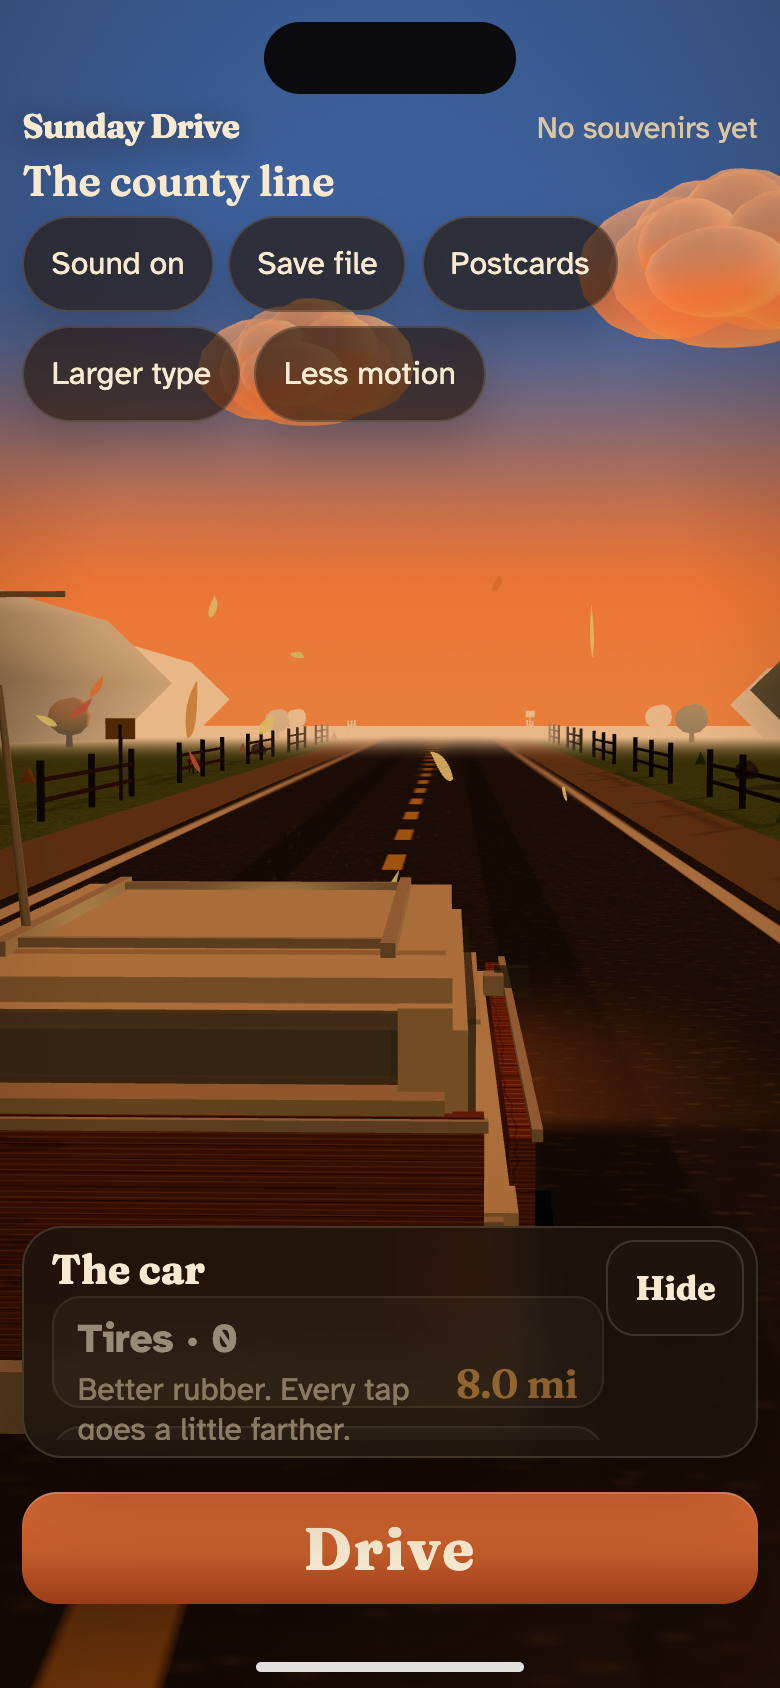
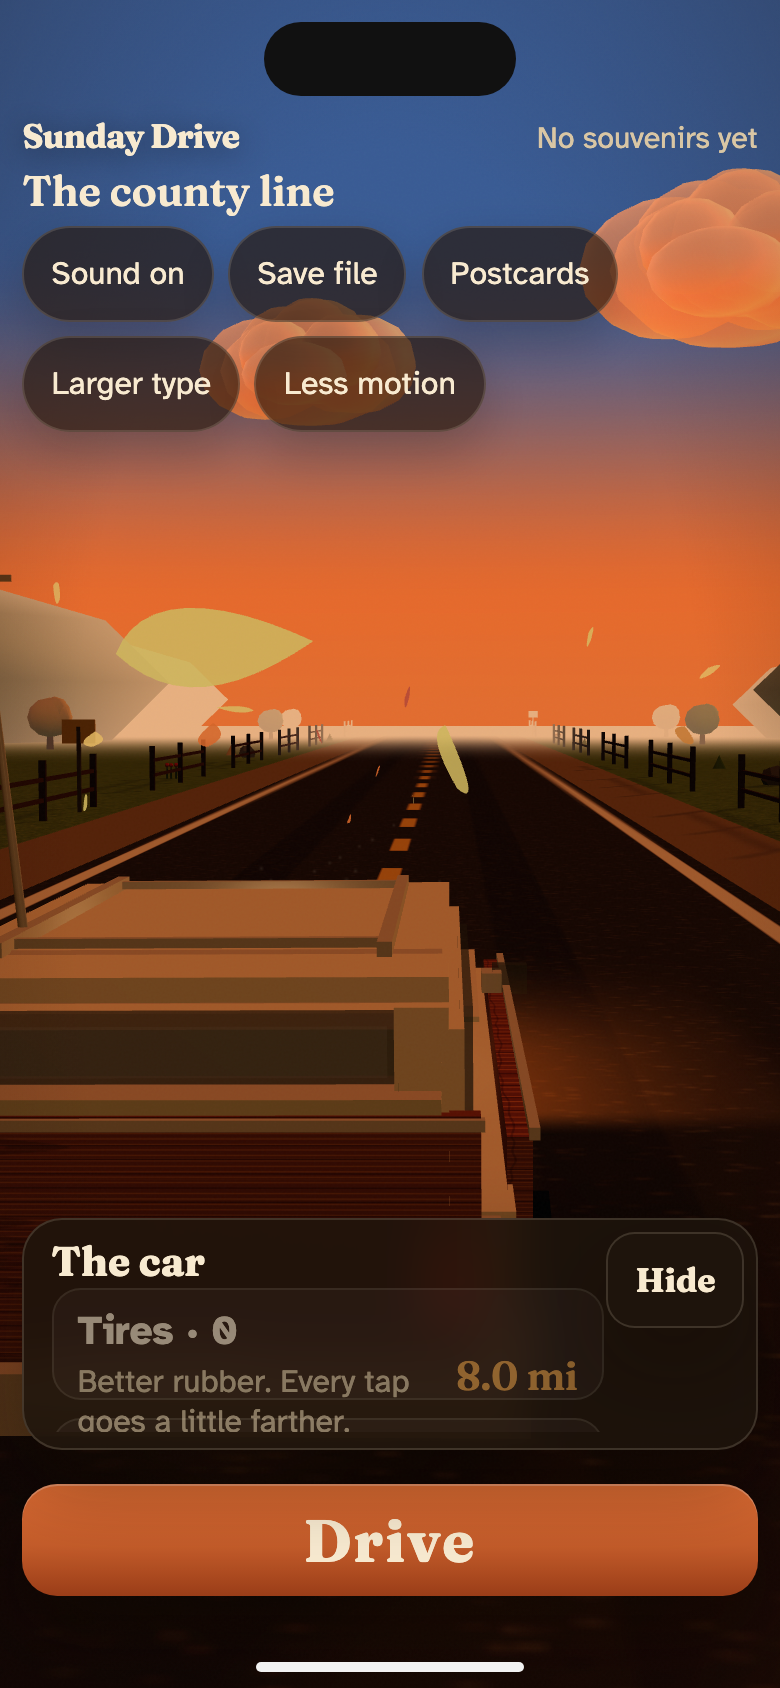
Wave 7: tighten phone chrome after the first pass
Give Drive more room above the home indicator, drop trip/hint on
portrait so the wagon stays in view, tuck upgrade blurbs when Larger
type is on, and make destination the landscape display line.
Draft only — no merge.

diff --git a/src/style.css b/src/style.css
@@ -583,7 +583,7 @@ input {
     min-height: 100dvh;
     padding-top: max(0.7rem, var(--safe-top));
     padding-right: max(0.7rem, var(--safe-right));
-    padding-bottom: max(0.85rem, calc(var(--safe-bottom) + 0.5rem));
+    padding-bottom: max(0.85rem, calc(var(--safe-bottom) + 0.75rem));
     padding-left: max(0.7rem, var(--safe-left));
   }
 
@@ -654,8 +654,13 @@ input {
   }
 
   .drive-wrap {
-    margin-top: 0.55rem;
+    margin-top: 0.4rem;
     flex-shrink: 0;
+  }
+
+  .hint,
+  .trip {
+    display: none;
   }
 
   .panel-toggle {
@@ -744,6 +749,14 @@ input {
     display: none;
   }
 
+  body.large-type.panel-open .upgrade .meta {
+    display: none;
+  }
+
+  body.large-type.panel-open .upgrade {
+    min-height: 48px;
+  }
+
   .drive {
     width: 100%;
     min-height: max(48px, 4.8rem);
@@ -783,7 +796,7 @@ input {
 @media (max-width: 900px) and (max-height: 680px) and (orientation: portrait) {
   #hud {
     gap: 0.32rem;
-    padding-bottom: max(0.7rem, calc(var(--safe-bottom) + 0.45rem));
+    padding-bottom: max(0.7rem, calc(var(--safe-bottom) + 0.7rem));
   }
 
   .brand h1 {
@@ -865,7 +878,7 @@ input {
     min-height: 100dvh;
     padding-top: max(0.35rem, var(--safe-top));
     padding-right: max(0.55rem, var(--safe-right));
-    padding-bottom: max(0.4rem, var(--safe-bottom));
+    padding-bottom: max(0.4rem, calc(var(--safe-bottom) + 0.2rem));
     padding-left: max(0.55rem, var(--safe-left));
   }
 
@@ -882,21 +895,24 @@ input {
   .brand {
     display: block;
     min-width: 0;
+    flex: 1 1 14rem;
   }
 
   .top-actions {
     display: flex;
     flex-direction: column;
     align-items: flex-end;
+    flex: 0 1 auto;
   }
 
   .brand h1 {
-    font-size: clamp(1.05rem, 3.6vh, 1.3rem);
+    font-size: clamp(1.05rem, 3.6vh, 1.28rem);
     white-space: nowrap;
   }
 
   .brand p {
-    font-size: clamp(1.12rem, 4.2vh, 1.38rem);
+    font-size: clamp(1.22rem, 4.8vh, 1.5rem);
+    font-weight: 600;
     white-space: nowrap;
     overflow: hidden;
     text-overflow: ellipsis;
@@ -1146,7 +1162,7 @@ body.large-type .modal-body {
   }
 
   body.large-type .brand p {
-    font-size: clamp(1.2rem, 4.4vh, 1.45rem);
+    font-size: clamp(1.32rem, 5.2vh, 1.62rem);
   }
 
   body.large-type .miles {

diff --git a/wave7-mobile/RESULT.md b/wave7-mobile/RESULT.md
@@ -4,8 +4,10 @@ Draft PR only. Not merged. Not deployed to production.
 
 ## PR
 
-https://github.com/andrewkittridge/sunday-drive/pull/8 (draft)  
-Base: `main` @ `8c12073` (wave 6). Head: `wave/7-mobile`.
+https://github.com/andrewkittridge/sunday-drive/pull/8 landed the first pass and was merged to `main`.  
+This follow-up is a **draft** PR against `main` for remaining bar nits (collapsed chrome, Larger type sheet, landscape destination).
+
+Base: `main` (wave 6 + PR 8). Head: `wave/7-mobile`.
 
 ## Thesis
 
@@ -14,19 +16,19 @@ Thumb-first calm on phone. Not desktop atmosphere squeezed narrow. Cookie/deer d
 ## What landed
 
 ### 1. Safe-area + home-indicator
-HUD, toast, and modal pad with `env(safe-area-inset-*)` tokens. Canvas stays full-bleed (sky under the notch); chrome does not. Portrait adds a little extra above the home indicator so **Drive** and miles never sit under the system bar. Layout uses `100dvh`. Hit targets stay ≥48px (Drive, Hide, Sound, Larger type, Less motion). Capture: `?panel=1` at 390×844 with island + home-indicator overlays.
+HUD, toast, and modal pad with `env(safe-area-inset-*)` tokens. Canvas stays full-bleed (sky under the notch); chrome does not. Portrait adds extra above the home indicator (`safe-bottom + 0.75rem`) so **Drive** and miles never sit under the system bar. Layout uses `100dvh`. Hit targets stay ≥48px (Drive, Hide, Sound, Larger type, Less motion). Capture: `?panel=1` at 390×844 with island + home-indicator overlays and simulated inset tokens.
 
 ### 2. Short-phone sheet (~667)
-Open **The car** at ~667 is a shorter sheet (`max-height: min(14vh, 5.85rem)`), upgrade blurbs tuck away, and Hide stays in the sheet header. Wagon roof, tailgate, and horizon stay in view with a full Drive (`min-height: max(48px, 3.15rem)`). No second bar on Drive. Collapsed default stands. Capture: `?panel=1` at 390×667.
+Open **The car** at ~667 is a shorter sheet (`max-height: min(14vh, 5.85rem)`), upgrade blurbs tuck away, and Hide stays in the sheet header. Wagon roof, tailgate, and horizon stay in view with a full Drive (`min-height: max(48px, 3.15rem)`). No second bar on Drive. Collapsed default stands. Portrait collapsed HUD drops the trip line and “Tap Drive” hint so more wagon shows; miles + rate + Drive stay. Capture: `?panel=1` at 390×667.
 
 ### 3. Landscape thumb path
-Two-column calm. The right column is capped (`min(15rem, 30vw)`) so upgrades do not cover the road corridor or wagon. **Drive** sits in the right thumb zone under the sheet. Miles sit bottom-left. Portrait stays the hero layout. Safe-area left/right apply (notch on the long edge). Disabled prestige tucks away so the panel is upgrades + Drive. Capture: landscape 844×390.
+Two-column calm. The right column is capped (`min(15rem, 30vw)`) so upgrades do not cover the road corridor or wagon. **Drive** sits in the right thumb zone under the sheet. Miles sit bottom-left, clear of the long-edge notch. Destination is the display line (larger than the wordmark) with room in the brand column. Portrait stays the hero layout. Disabled prestige tucks away so the panel is upgrades + Drive. Capture: landscape 844×390.
 
 ### 4. Mobile type hierarchy
-Read order is **destination → miles → Drive → upgrades**. On phone, destination is the display line (full width, one line); “Sunday Drive” is a smaller nowrap wordmark. Comfort buttons wrap in two rows instead of a tall right stack. **Larger type** still steps up without wrapping Drive or crowding the postcard (capped miles / Drive on short and landscape). Cream-on-walnut held. Capture: `?panel=1&large=1` at 390×844.
+Read order is **destination → miles → Drive → upgrades**. On phone, destination is the display line (full width, one line); “Sunday Drive” is a smaller nowrap wordmark. Comfort buttons wrap in two rows instead of a tall right stack. **Larger type** still steps up without wrapping Drive or crowding the postcard (upgrade blurbs hide when Larger type + sheet are both on; miles / Drive capped on short and landscape). Cream-on-walnut held. Capture: `?panel=1&large=1` at 390×844.
 
 ### 5. Calm mobile perf
-Skipped. Capture-loop frame time was ~13ms (~75fps) at the phone viewports. Existing `setPixelRatio` cap of 2 stands. No shadow or post-stack changes.
+Skipped. Headless capture is not a phone GPU; existing `setPixelRatio` cap of 2 stands. No shadow or post-stack changes.
 
 ## Clip-fix / cozy invariants
 
@@ -39,13 +41,15 @@ After: `wave7-mobile/evidence/after/`
 
 - `phone-390-sheet.png` — 390×844, sheet open, island + home indicator, Drive planted, destination-first
 - `phone-short-667.png` — ~667, sheet open, wagon/horizon + full Drive, Hide in header
-- `phone-landscape.png` — landscape, Drive in the right thumb zone, wagon/road clear
-- `phone-390-large-type.png` — optional Larger type on 390; Drive still one line
-- `phone-390-collapsed.png` — extra; collapsed default, miles + Drive
+- `phone-landscape.png` — landscape, Drive in the right thumb zone, wagon/road clear, destination larger than the wordmark
+- `phone-390-large-type.png` — optional Larger type on 390; Drive still one line; upgrade blurbs tucked
+- `phone-390-collapsed.png` — extra; collapsed default, miles + Drive, no trip/hint chrome on the wagon
 
 Bar: `wave7-mobile/VISUAL-BAR.md` + `mood-phone-390.png` / `mood-phone-short.png` / `mood-phone-landscape.png`.
 
 `npm run build` succeeded after the pass.
+
+Verified in Playwright (iPhone-sized viewports, simulated safe-area tokens): Drive click, The car open/hide, Sound on/off, Less motion, Larger type. All primary targets ≥48px. Drive / destination / wordmark do not wrap. Desktop 1440×900 still shows trip, hint, and the side panel.
 
 ## Unfinished
 
